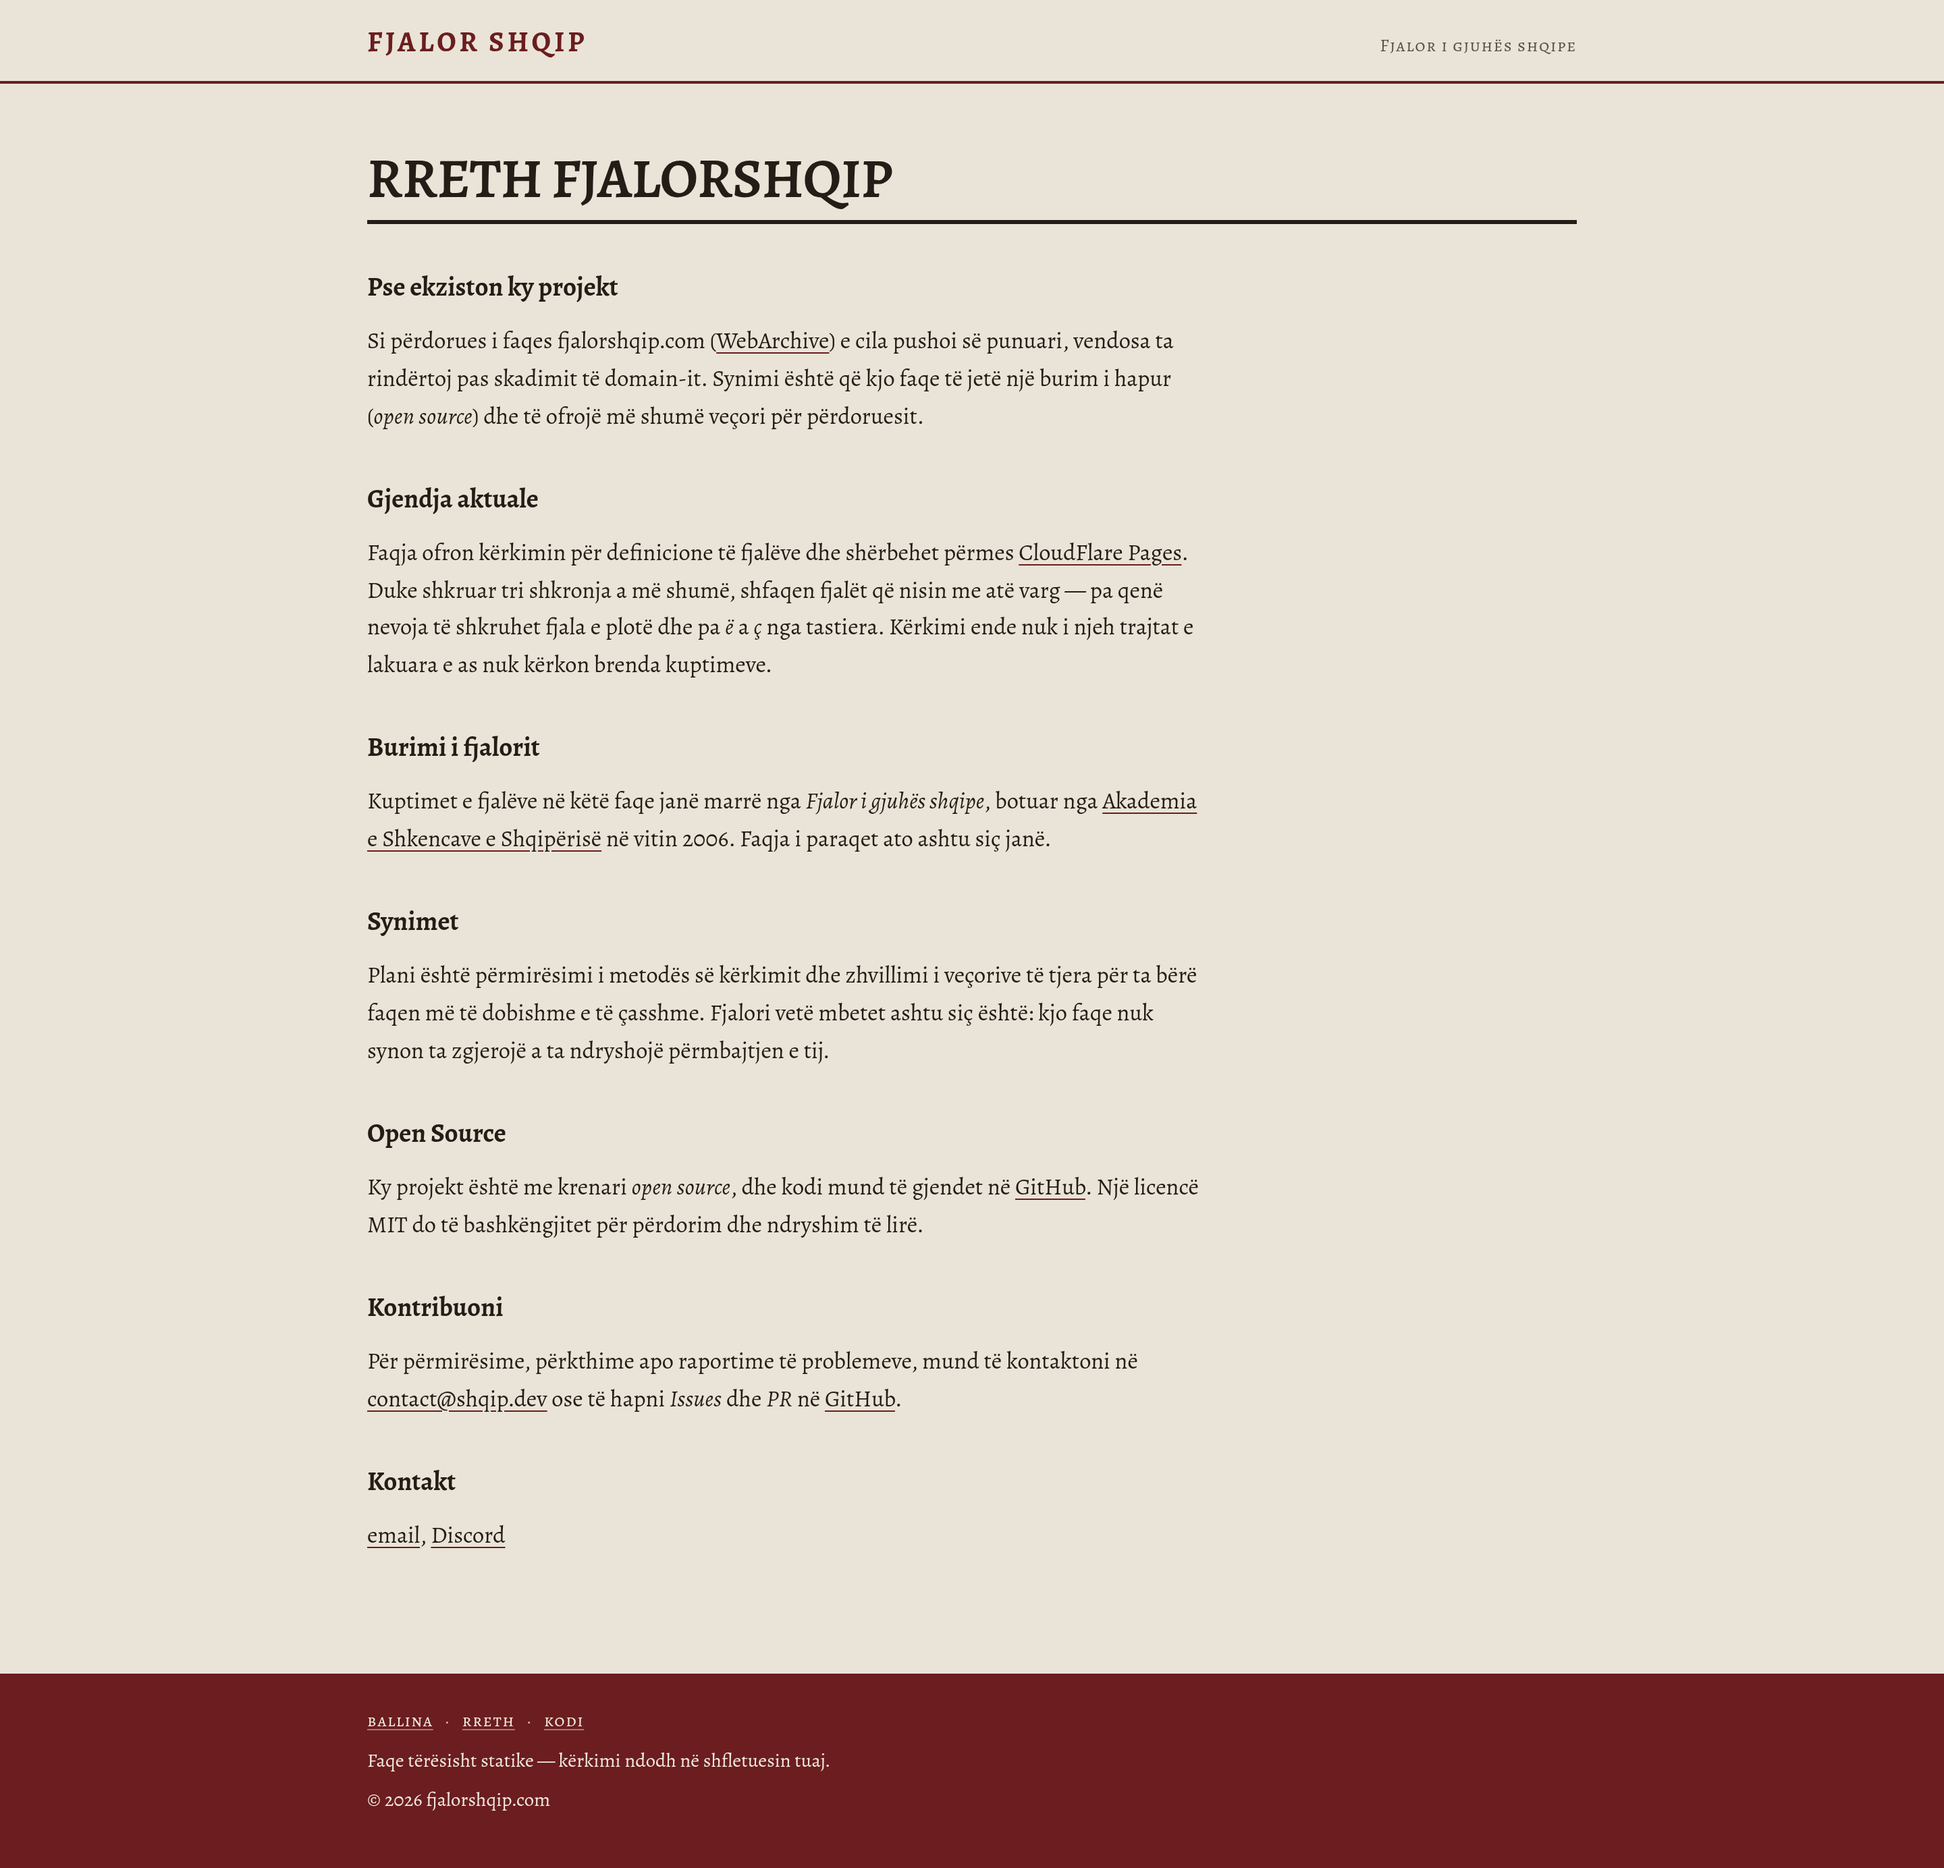
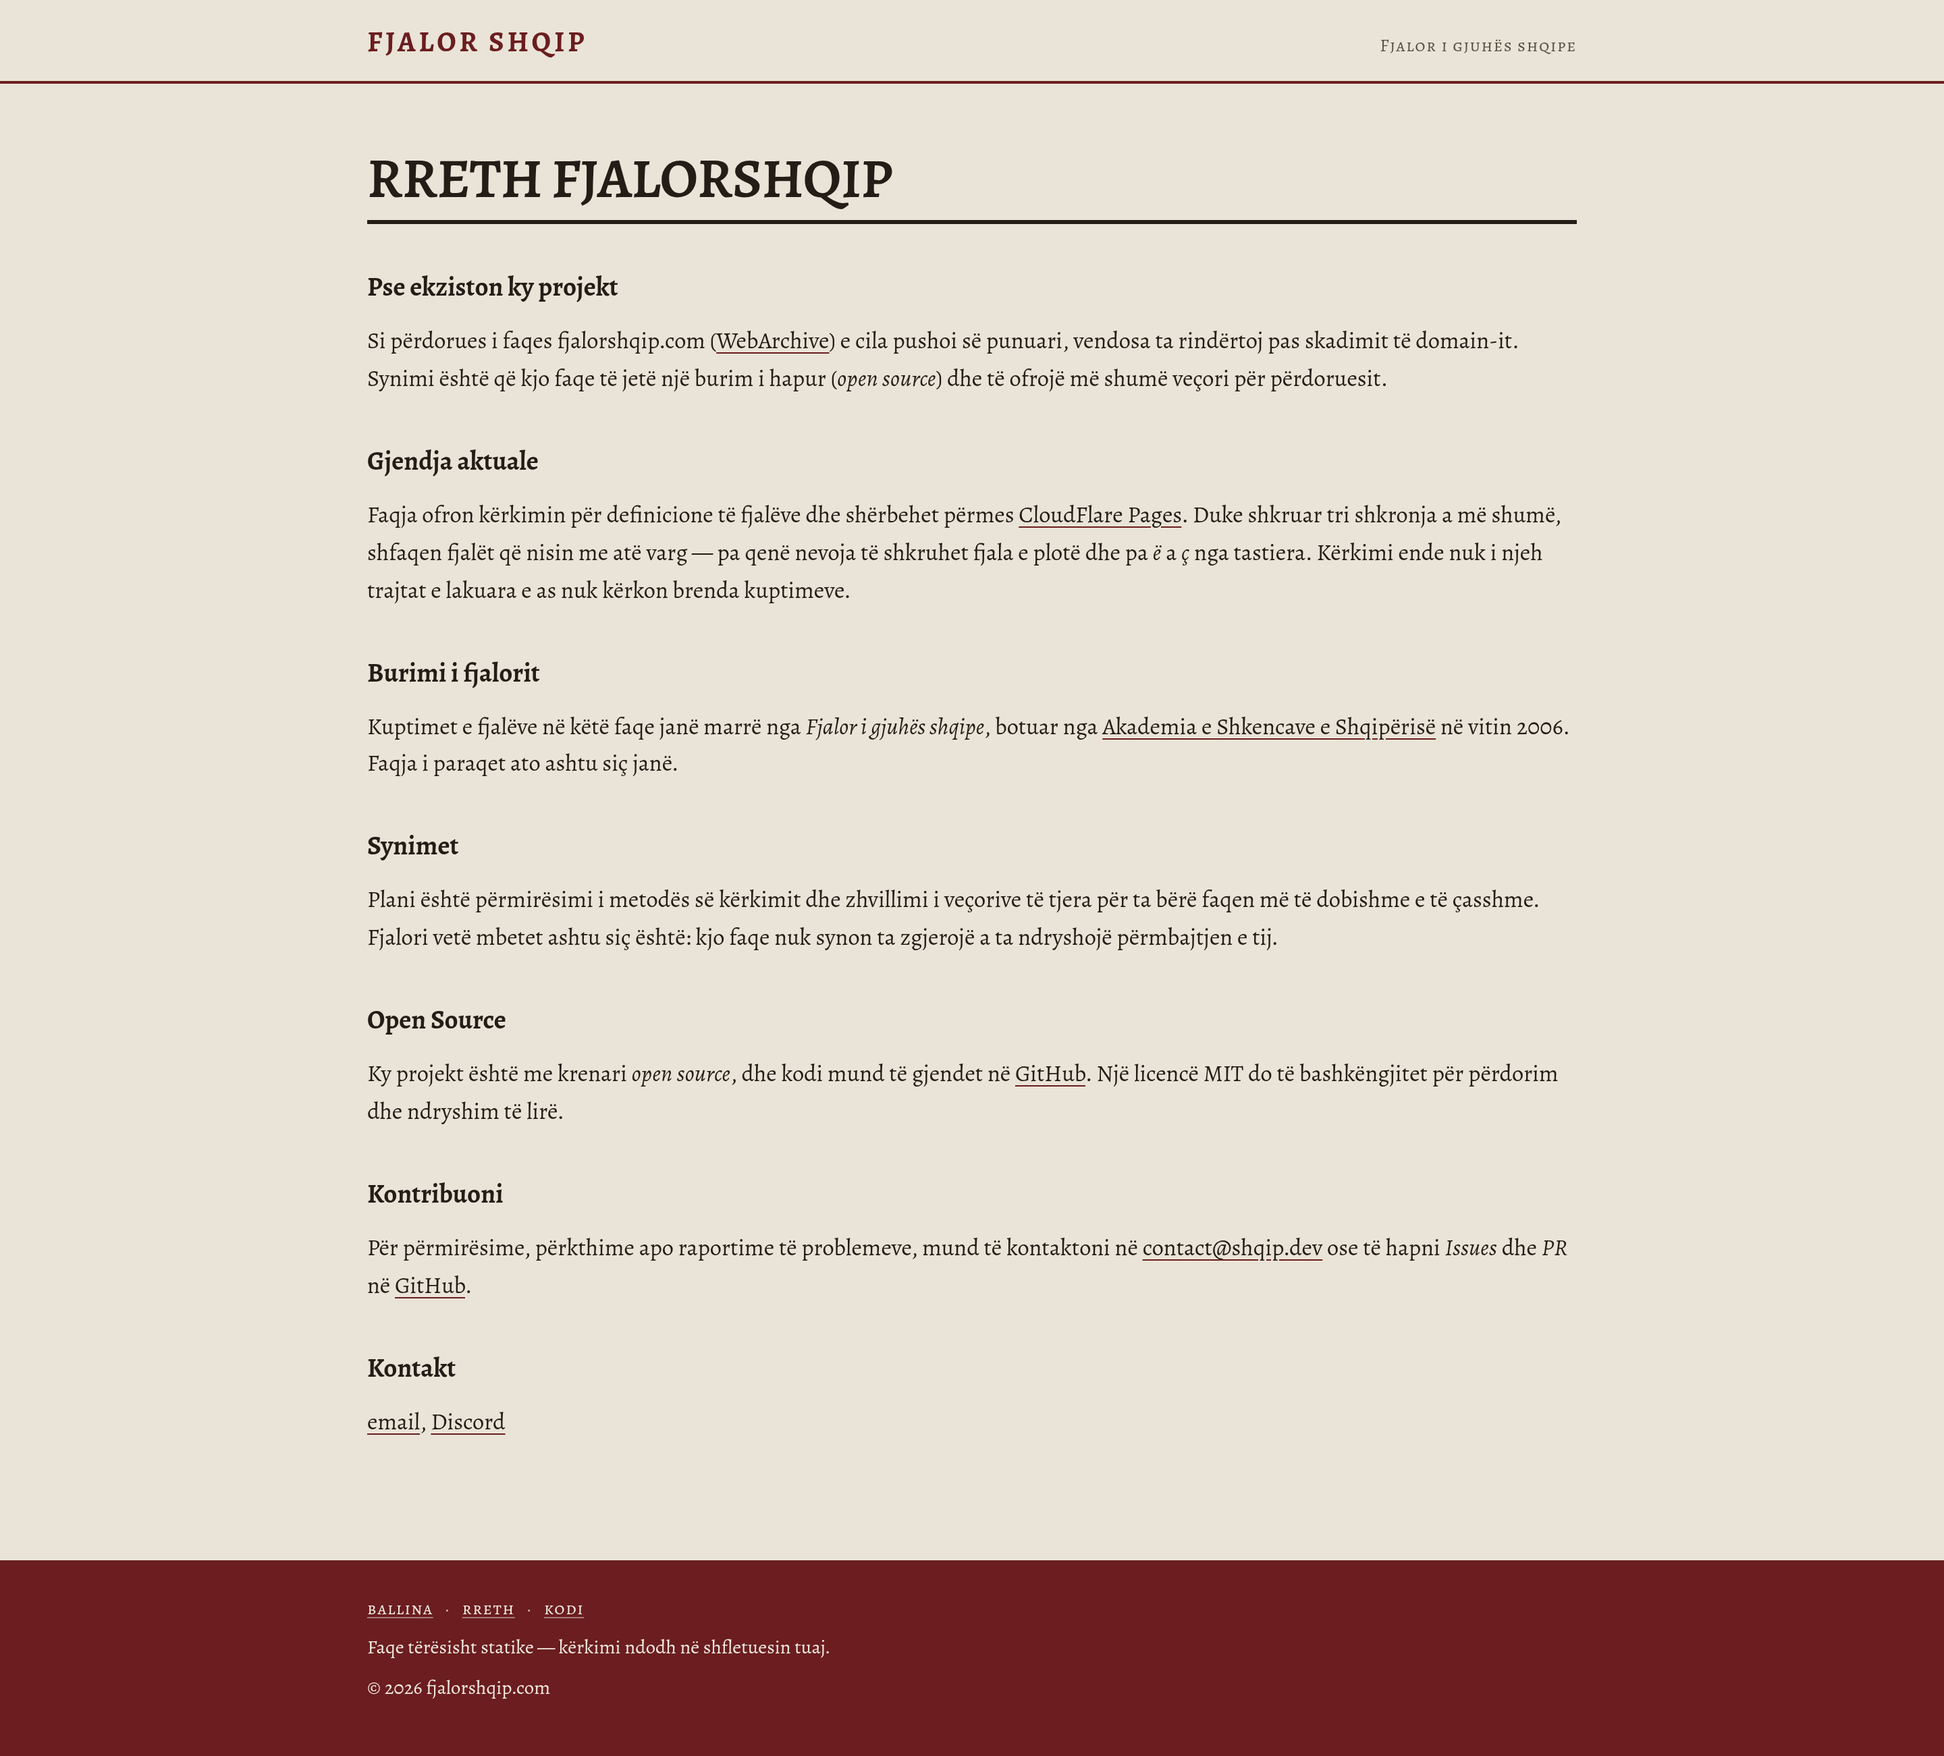
Fix about width

diff --git a/src/styles/global.scss b/src/styles/global.scss
@@ -231,8 +231,7 @@ button {
 }
 
 /* Running prose — the Rreth page and anything else set as a page of text.
-   Structure spans the column exactly as a word page does; only the reading
-   line is held to the measure, so the two pages line up edge to edge. */
+   Everything spans the column: heading, rule and text share one edge. */
 .prose {
   padding-top: clamp(1.75rem, 6vw, 3rem);
 }
@@ -249,7 +248,6 @@ button {
 }
 
 .prose h2 {
-  max-width: var(--measure);
   font-size: 1.22rem;
   font-weight: 700;
   line-height: 1.25;
@@ -260,8 +258,8 @@ button {
 
 .prose p,
 .prose li {
-  max-width: var(--measure);
   margin-top: 0.85rem;
+  line-height: 1.7;
 }
 
 .prose a {

diff --git a/DESIGN.md b/DESIGN.md
@@ -261,7 +261,8 @@ text rather than being it. `font-synthesis-weight: none` is set, so weights are 
   oxblood when the row is hovered or keyboard-active.
 - **Subhead** (700, 1.22rem, 1.25): Prose-page `h2`, sentence case, balanced wrap, 2.2rem of space above.
   Also the ceiling of the compact search field's clamp.
-- **Body** (400, 1.075rem, 1.62): Senses, prose, definitions. Measure capped at 68ch.
+- **Body** (400, 1.075rem, 1.62): Senses and definitions, held to the 68ch `--measure`. Prose paragraphs
+  are the same size but not the same block: they span the container and take 1.7 leading (see Layout).
 - **Small** (400, 0.9rem, 1.45): Italic label stacks, result gists, idiom lines, homograph marks — and,
   in the regular upright face, every status sentence: the field's hint, "Po kërkohet…", the no-match and
   error lines, the loader line, and the colophon's static-site and copyright notes.
@@ -293,17 +294,24 @@ serif. There is no monospace face in this system.
 
 ## Layout
 
-A single measure, no grid. `.container` is `min(100% - 2×gutter, 56rem)` centred, with the gutter itself
+One column, no grid — and, since the prose change, two reading widths inside it. `.container` is
+`min(100% - 2×gutter, 56rem)` centred, with the gutter itself
 fluid (`clamp(1.25rem, 5vw, 2.5rem)`). The colophon's cloth ground is the one element that breaks the
 container: the colour runs full-bleed while its contents stay on the same 56rem column as everything
 above.
 
-**Structure spans the column; only reading is measured.** A word page sets its headword, its rules and
-its guide rail across the full container and holds only the sense list to the 68ch `--measure`. The
-prose page does exactly the same: `.prose h1` and its closing rule span the container, while
-`.prose p`, `.prose li` and `.prose h2` are capped at `--measure`. Measured at the 56rem container: 896px
-of structural span and a 623px reading line on both pages. Do not cap a whole page at the measure —
-that was the old prose behaviour and it made the two pages disagree at the edge.
+**The two page types measure differently, on purpose.** Both span their structure across the full
+container, and there they agree: 896px of span at the 56rem container on a word page and on a prose
+page alike. Below the structure they diverge. A word page holds its sense list to the 68ch `--measure`
+— 623px, 68 characters, 1.62 leading. A prose page holds nothing back: `.prose h1`, `.prose h2`,
+`.prose p` and `.prose li` all run the full 896px, which is **98 characters** to the line, and the
+paragraphs open to **1.7** leading to carry it. That is the user's explicit choice — they asked for the
+Rreth page's text to sit on the same edge as its heading — and the line-length cost has been raised
+with them separately. It is recorded here as a stated tension, not as a target to copy blindly.
+
+`--measure` (68ch) still exists and still governs everything it governed before except prose: the sense
+list on a word page and the `.notfound` block. Search results are not measured; they are held by the
+container like the rest of the search column.
 
 Vertical rhythm is a small set of reused steps rather than a numeric scale:
 `clamp(1.75rem, 6vw, 3rem)` opens every major block (entry, not-found, loader, prose), 1.5rem separates
@@ -317,6 +325,14 @@ Responsive behaviour is two breakpoints and both are content-driven: below 30rem
 is dropped and the leader closes to a single uninterrupted rule; at and above 60rem a long entry's sense
 list becomes two columns with a 2.5rem gap and a hairline column rule. Nothing reflows into a drawer, a
 modal or a hamburger — the field is the navigation at every width.
+
+### Named Rules
+**The Two Measures Rule.** This system has two reading widths and they are not reconciled. A *defined
+word* is read at the 68ch `--measure` at 1.62 leading; a *page of prose* is read at the full container,
+98 characters at 1.7 leading, because the user asked for heading and text on one edge. Structure — the
+h1, its 3px rule, the guide rail — spans the container on both. When you add a surface, decide which of
+the two it is and take that page's whole behaviour, measure and leading together; do not invent a third
+width and do not quietly re-cap the prose page.
 
 ## Elevation & Depth
 
@@ -446,8 +462,10 @@ cloth chip: oxblood ground, `--on-cloth` text, 0.6rem/1rem padding, square.
   links, homograph marks, idiom titles, cross-references.
 - **Do** set every sentence — hints, status, pending, no-match, errors, the loader, colophon notes — in
   the regular upright face at `--step-small` with normal tracking.
-- **Do** span structure across the container and cap only the reading line at `--measure`, so a prose
-  page and a word page line up at 896px of span and a 623px measure.
+- **Do** span structure across the container on both page types (896px at the 56rem container), and
+  then follow the page: a word page's sense list and the `.notfound` block are capped at the 68ch
+  `--measure` (623px, 1.62 leading); a prose page is not capped at all and runs the full 896px at 1.7
+  leading. Don't split the difference on a new surface — pick the page type it belongs to.
 - **Do** keep `--rule-strong` at or above 3:1 on stock (it measures 3.35:1); it is the field's resting
   underline.
 - **Do** keep every text/background pair at or above 4.5:1 — ink 13.1:1, muted ink 6.09:1 and cloth
